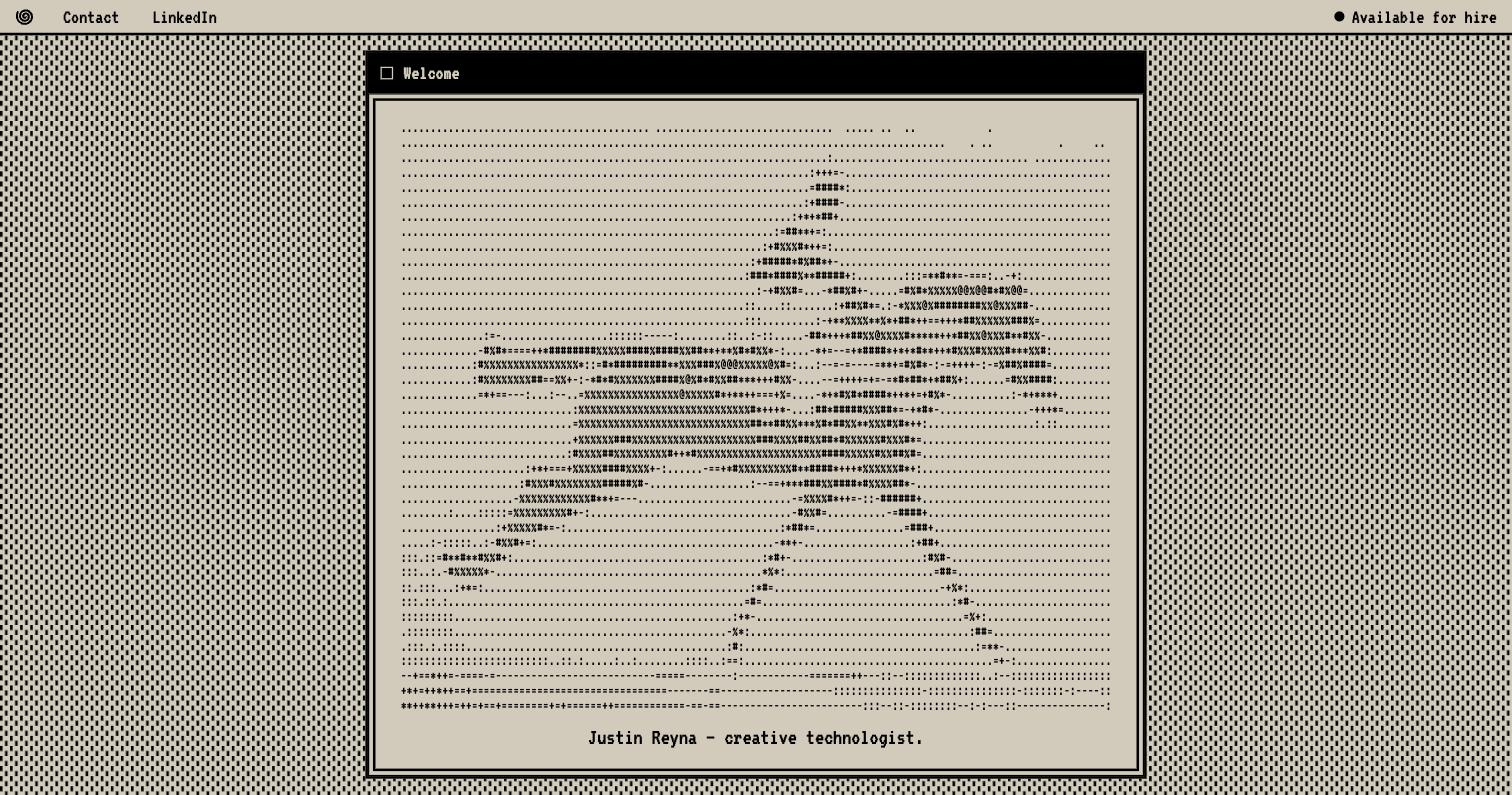
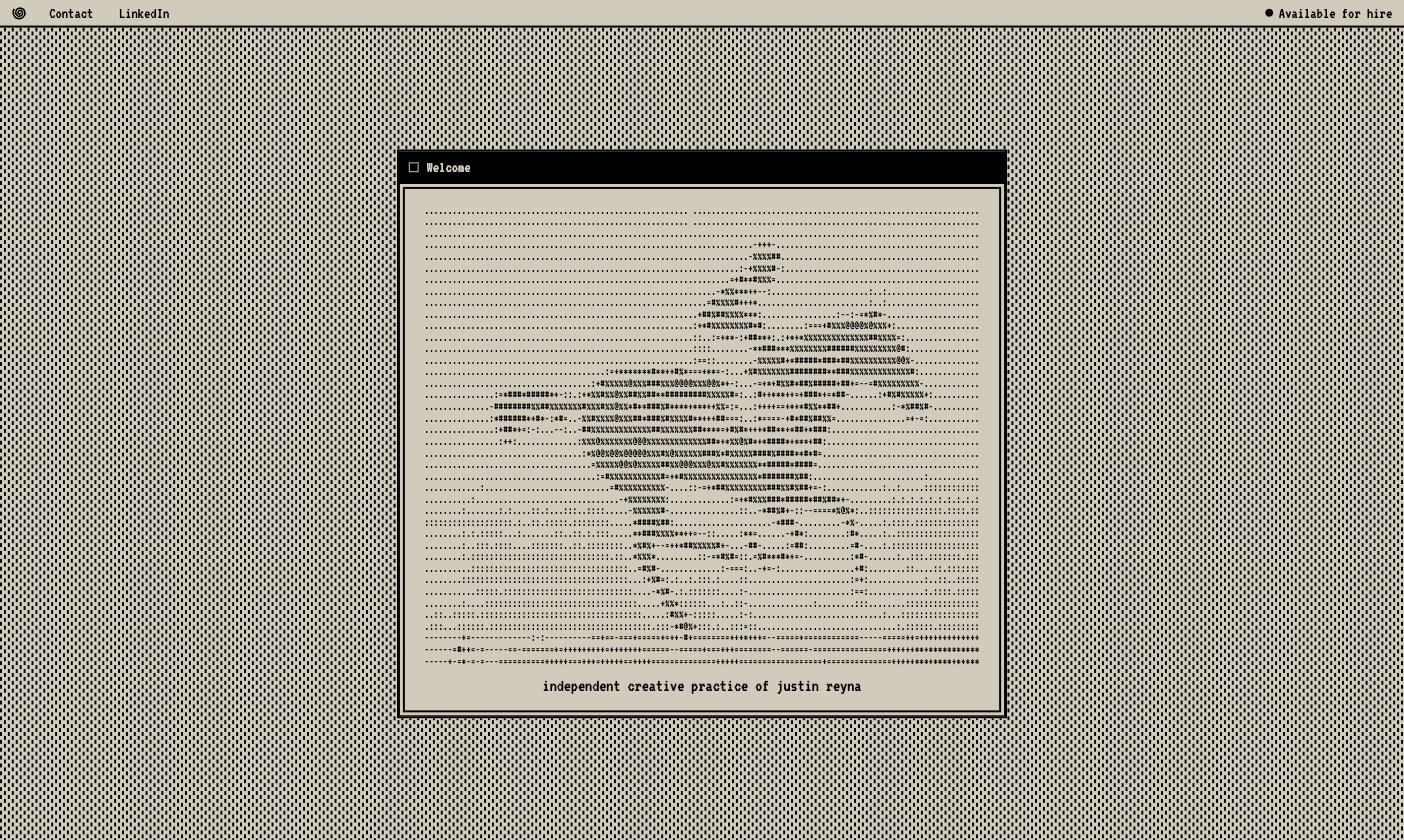
New caption + refreshed social card

diff --git a/index.html b/index.html
@@ -11,8 +11,8 @@
 <meta property="og:url" content="https://justinreyna.design/">
 <meta property="og:type" content="website">
 <meta property="og:image" content="https://justinreyna.design/og.jpg">
-<meta property="og:image:width" content="1512">
-<meta property="og:image:height" content="795">
+<meta property="og:image:width" content="1404">
+<meta property="og:image:height" content="840">
 <meta property="og:site_name" content="Justin Reyna">
 <meta name="twitter:card" content="summary_large_image">
 <meta name="twitter:title" content="Justin Reyna">
@@ -79,7 +79,7 @@
     <div class="winbody">
       <div class="pane">
         <div id="horse-host"><pre id="horse" role="img" aria-label="Galloping horse and rider, after Muybridge"></pre></div>
-        <p class="caption">Justin Reyna — creative technologist.</p>
+        <p class="caption">independent creative practice of justin reyna</p>
       </div>
     </div>
   </div>
